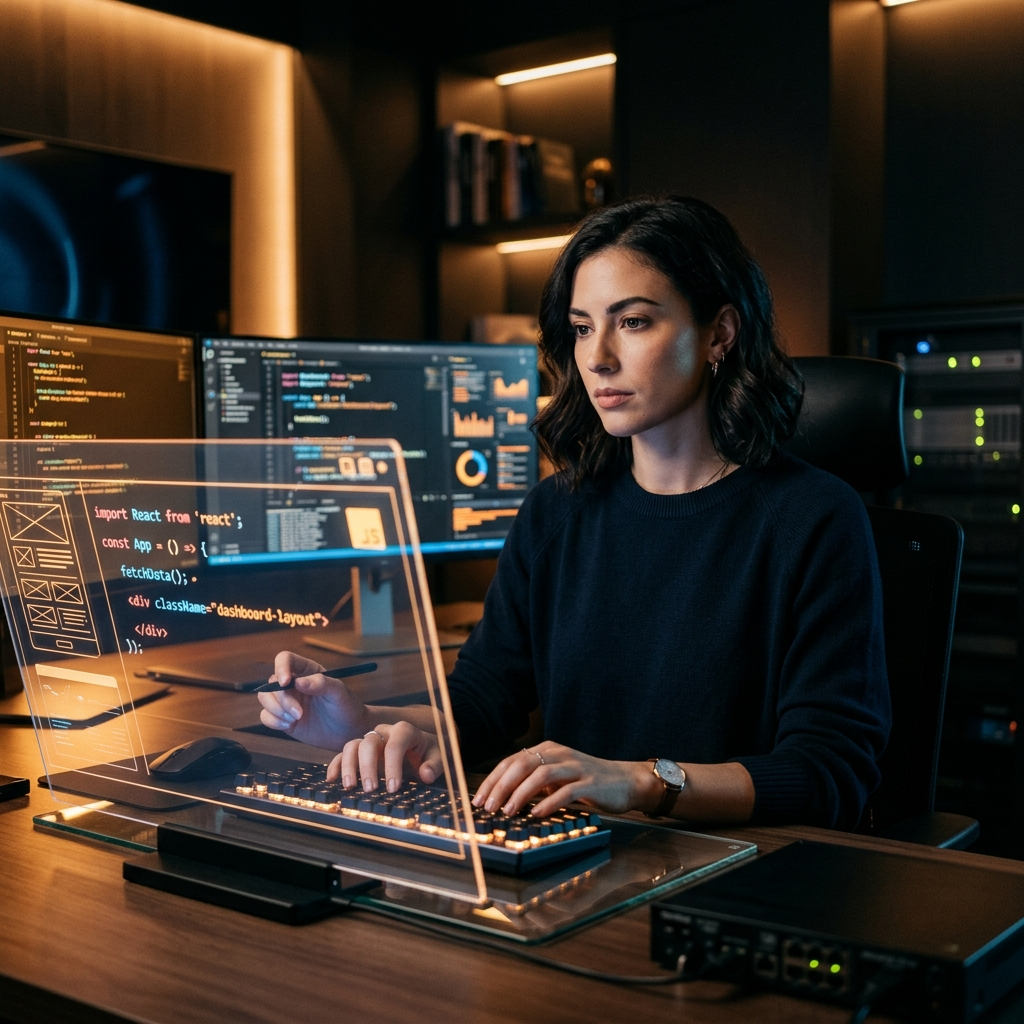
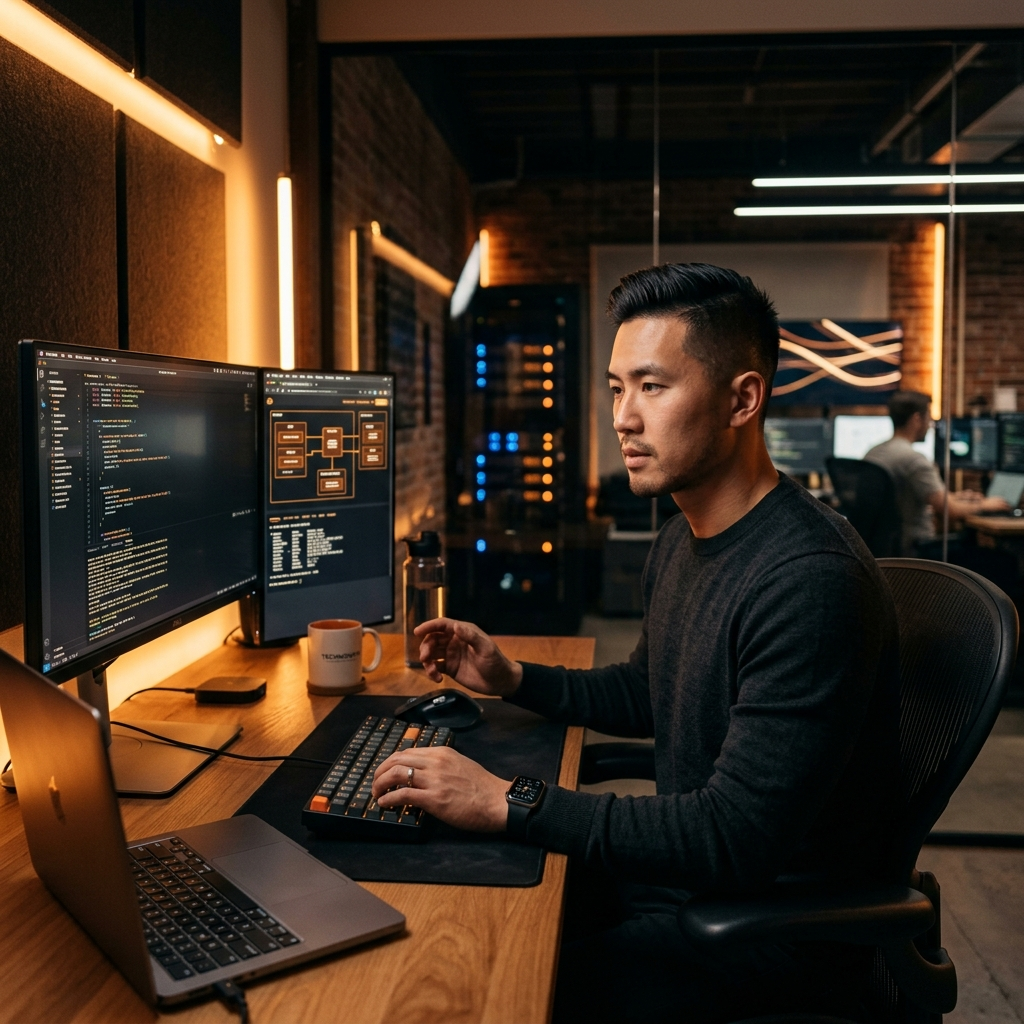
Update portfolio details for Muhammad Asim

diff --git a/index.html b/index.html
@@ -3,8 +3,8 @@
 <head>
   <meta charset="UTF-8" />
   <meta name="viewport" content="width=device-width, initial-scale=1.0" />
-  <title>Laiba Gulzar — Data Analyst · Backend Developer · Digital Builder</title>
-  <meta name="description" content="Portfolio of Laiba Gulzar — BBIT Graduate, Data Analyst, Backend Developer, and Digital Builder based in Lahore, Pakistan." />
+  <title>Muhammad Asim — Full Stack Developer · Data Analyst · Digital Builder</title>
+  <meta name="description" content="Portfolio of Muhammad Asim — Full Stack Developer, Data Analyst, and Digital Builder based in Pakistan." />
   
   <!-- Fonts -->
   <link rel="preconnect" href="https://fonts.googleapis.com" />
@@ -1147,7 +1147,7 @@
   <!-- NAVBAR -->
   <nav id="navbar">
     <a href="#hero" class="nav-logo">
-      Laiba Gulzar<span>.</span>
+      Muhammad Asim<span>.</span>
     </a>
     
     <button class="mobile-menu-btn" id="menuBtn" aria-label="Toggle navigation menu">
@@ -1175,15 +1175,15 @@
           <span class="status-dot"></span> PORTFOLIO · 2025
         </div>
         
-        <h1 class="hero-name">Laiba Gulzar</h1>
+        <h1 class="hero-name">Muhammad Asim</h1>
         
         <div class="hero-roles-wrapper">
-          <span class="roles-text" id="roleTyping">Data Analyst · Backend Developer · Digital Builder</span>
+          <span class="roles-text" id="roleTyping">Full Stack Developer · Data Analyst · Digital Builder</span>
           <span class="typing-cursor"></span>
         </div>
 
         <div class="hero-subdetails">
-          BBIT Graduate · WasteBridge.online · DevelopersHub · Lahore, PK
+          Software Engineering · Full Stack & Data Solutions · Pakistan
         </div>
 
         <div class="hero-actions">
@@ -1199,13 +1199,13 @@
       <div class="hero-right reveal">
         <div class="portrait-card">
           <div class="portrait-img-wrapper">
-            <img src="hero-avatar.jpg" alt="Laiba Gulzar — Data Analyst & Developer" />
+            <img src="hero-avatar.jpg" alt="Muhammad Asim — Full Stack Developer & Analyst" />
             <div class="portrait-overlay"></div>
           </div>
           <div class="portrait-badge">
             <div class="badge-info">
-              <h4>Laiba Gulzar</h4>
-              <p>Data Analyst & Backend Builder</p>
+              <h4>Muhammad Asim</h4>
+              <p>Full Stack Developer & Analyst</p>
             </div>
             <div class="badge-icon">
               <svg width="20" height="20" viewBox="0 0 24 24" fill="none" stroke="currentColor" stroke-width="2">
@@ -1228,16 +1228,16 @@
       <h2 class="section-title">Builder, analyst, <em>creator.</em></h2>
       
       <p>
-        I'm <strong>Laiba</strong> — a <strong>BBIT graduate from University of the Punjab</strong> with a genuine obsession for turning messy data into decisions that matter.
+        I'm <strong>Muhammad Asim</strong> — a passionate software developer and analyst focused on turning complex data into decisions that matter and building high-performance web applications.
       </p>
       <p>
-        My work lives at the intersection of <strong>data science, backend engineering, and entrepreneurial thinking</strong>.
+        My work lives at the intersection of <strong>full stack engineering, data analytics, and digital innovation</strong>.
       </p>
       <p>
-        During my internship at <strong>DevelopersHub</strong> I shipped <strong>7 end-to-end ML/NLP projects</strong> — fraud detection, sentiment analysis, attrition prediction, and more. My Final Year Project <strong>WasteBridge</strong> is a live B2B waste marketplace, deployed at <a href="https://wastebridge.online" target="_blank" style="color:var(--gold); text-decoration:underline;">wastebridge.online</a>.
+        I specialize in developing end-to-end digital solutions, modern backend APIs, interactive dashboards, and scalable web products with clean architecture and performance.
       </p>
       <p>
-        I'm <strong>IBM/Coursera certified in Python for Data Science</strong> and self-studying <strong>AWS Data Analytics</strong>. Based in Lahore — open to remote and hybrid roles globally.
+        Based in Pakistan — open to remote and hybrid engineering & analytical roles globally.
       </p>
     </div>
 
@@ -1285,14 +1285,13 @@
         </div>
         <div class="skill-tags">
           <span class="tag">Python</span>
+          <span class="tag">JavaScript</span>
           <span class="tag">SQL</span>
           <span class="tag">Pandas</span>
           <span class="tag">NumPy</span>
           <span class="tag">Scikit-learn</span>
           <span class="tag">Matplotlib</span>
           <span class="tag">Seaborn</span>
-          <span class="tag">NLTK</span>
-          <span class="tag">HuggingFace</span>
         </div>
       </div>
 
@@ -1304,7 +1303,7 @@
               <path d="M12 2v20M17 5H9.5a3.5 3.5 0 0 0 0 7h5a3.5 3.5 0 0 1 0 7H6"></path>
             </svg>
           </div>
-          <h3>MACHINE LEARNING</h3>
+          <h3>MACHINE LEARNING & DATA</h3>
         </div>
         <div class="skill-tags">
           <span class="tag">Classification</span>
@@ -1318,46 +1317,47 @@
         </div>
       </div>
 
-      <!-- NLP & Text Analytics -->
+      <!-- Web & Full Stack -->
       <div class="skill-card">
         <div class="skill-header">
           <div class="skill-icon">
             <svg width="20" height="20" viewBox="0 0 24 24" fill="none" stroke="currentColor" stroke-width="2">
-              <path d="M21 15a2 2 0 0 1-2 2H7l-4 4V5a2 2 0 0 1 2-2h14a2 2 0 0 1 2 2z"></path>
+              <rect x="2" y="3" width="20" height="14" rx="2" ry="2"></rect>
+              <line x1="8" y1="21" x2="16" y2="21"></line>
+              <line x1="12" y1="17" x2="12" y2="21"></line>
             </svg>
           </div>
-          <h3>NLP & TEXT ANALYTICS</h3>
+          <h3>FRONTEND & BACKEND</h3>
         </div>
         <div class="skill-tags">
-          <span class="tag">Sentiment Analysis</span>
-          <span class="tag">Text Summarisation</span>
-          <span class="tag">TF-IDF</span>
-          <span class="tag">ROUGE Scoring</span>
-          <span class="tag">Transformers</span>
+          <span class="tag">React.js</span>
+          <span class="tag">Node.js</span>
+          <span class="tag">Express.js</span>
+          <span class="tag">FastAPI</span>
+          <span class="tag">REST APIs</span>
+          <span class="tag">Tailwind CSS</span>
+          <span class="tag">HTML5 / CSS3</span>
         </div>
       </div>
 
-      <!-- Backend & APIs -->
+      <!-- Databases & Storage -->
       <div class="skill-card">
         <div class="skill-header">
           <div class="skill-icon">
             <svg width="20" height="20" viewBox="0 0 24 24" fill="none" stroke="currentColor" stroke-width="2">
-              <rect x="2" y="2" width="20" height="8" rx="2" ry="2"></rect>
-              <rect x="2" y="14" width="20" height="8" rx="2" ry="2"></rect>
-              <line x1="6" y1="6" x2="6.01" y2="6"></line>
-              <line x1="6" y1="18" x2="6.01" y2="18"></line>
+              <ellipse cx="12" cy="5" rx="9" ry="3"></ellipse>
+              <path d="M21 12c0 1.66-4 3-9 3s-9-1.34-9-3"></path>
+              <path d="M3 5v14c0 1.66 4 3 9 3s9-1.34 9-3V5"></path>
             </svg>
           </div>
-          <h3>BACKEND & APIS</h3>
+          <h3>DATABASES & STORAGE</h3>
         </div>
         <div class="skill-tags">
-          <span class="tag">FastAPI</span>
+          <span class="tag">MongoDB</span>
+          <span class="tag">MySQL</span>
+          <span class="tag">PostgreSQL</span>
           <span class="tag">SQLite</span>
-          <span class="tag">JWT Auth</span>
-          <span class="tag">REST APIs</span>
-          <span class="tag">Stripe</span>
-          <span class="tag">Git</span>
-          <span class="tag">GitHub</span>
+          <span class="tag">Prisma ORM</span>
         </div>
       </div>
 
@@ -1382,19 +1382,22 @@
         </div>
       </div>
 
-      <!-- Cloud & Certifications -->
+      <!-- Soft Skills & Tools -->
       <div class="skill-card">
         <div class="skill-header">
           <div class="skill-icon">
             <svg width="20" height="20" viewBox="0 0 24 24" fill="none" stroke="currentColor" stroke-width="2">
-              <path d="M18 10h-1.26A8 8 0 1 0 9 20h9a5 5 0 0 0 0-10z"></path>
+              <path d="M14.7 6.3a1 1 0 0 0 0 1.4l1.6 1.6a1 1 0 0 0 1.4 0l3.77-3.77a6 6 0 0 1-7.94 7.94l-6.91 6.91a2.12 2.12 0 0 1-3-3l6.91-6.91a6 6 0 0 1 7.94-7.94l-3.76 3.76z"></path>
             </svg>
           </div>
-          <h3>CLOUD & CERTIFICATIONS</h3>
+          <h3>TOOLS & SOFT SKILLS</h3>
         </div>
         <div class="skill-tags">
-          <span class="tag">IBM Python Certified ✓</span>
-          <span class="tag">AWS Data Analytics ↗</span>
+          <span class="tag">VS Code</span>
+          <span class="tag">Postman</span>
+          <span class="tag">Vercel</span>
+          <span class="tag">Problem Solving</span>
+          <span class="tag">Team Leadership</span>
         </div>
       </div>
     </div>
@@ -1418,7 +1421,7 @@
             </a>
           </div>
           <h3>WasteBridge</h3>
-          <p>Final Year Project — a B2B waste marketplace connecting businesses to verified waste buyers. Full product: auth, listings, payments, and admin panel. Built solo.</p>
+          <p>B2B waste marketplace connecting businesses to verified waste buyers. Full product: auth, listings, payments, and admin panel.</p>
         </div>
         <div>
           <div class="project-techs">
@@ -1576,17 +1579,17 @@
       <!-- Experience 1 -->
       <div class="timeline-item">
         <div>
-          <div class="timeline-company">DEVELOPERSHUB</div>
-          <div class="timeline-date">May 2025 - Jun 2025</div>
-          <div class="timeline-location">Remote · Islamabad</div>
+          <div class="timeline-company">DATA ANALYTICS & DEVELOPMENT</div>
+          <div class="timeline-date">2025</div>
+          <div class="timeline-location">Remote · Pakistan</div>
         </div>
         <div>
-          <h3 class="timeline-role">Data Analyst Intern</h3>
+          <h3 class="timeline-role">Data Analyst & Software Developer</h3>
           <ul class="timeline-bullets">
-            <li>Delivered 7 complete data science projects within a single internship cycle — EDA, supervised ML, NLP, and predictive modelling.</li>
+            <li>Delivered complete data science & ML projects — EDA, supervised machine learning, NLP, and predictive modelling.</li>
             <li>Built fraud detection model using Random Forest and Logistic Regression; reduced false-positive rate through threshold tuning.</li>
-            <li>Developed NLP pipeline for IMDB sentiment analysis and automated text summarisation using HuggingFace Transformers.</li>
-            <li>Produced 10+ publication-ready visualisations with Matplotlib and Seaborn in structured Jupyter Notebook reports.</li>
+            <li>Developed NLP pipeline for sentiment analysis and automated text summarisation.</li>
+            <li>Produced publication-ready visualisations with Matplotlib and Seaborn in structured Jupyter Notebook reports.</li>
           </ul>
         </div>
       </div>
@@ -1594,32 +1597,16 @@
       <!-- Experience 2 -->
       <div class="timeline-item">
         <div>
-          <div class="timeline-company">WASTEBRIDGE</div>
-          <div class="timeline-date">FYP · 2025-2026</div>
-          <div class="timeline-location">Lahore, Pakistan</div>
+          <div class="timeline-company">FULL STACK ENGINEERING</div>
+          <div class="timeline-date">2024 - 2025</div>
+          <div class="timeline-location">Pakistan</div>
         </div>
         <div>
-          <h3 class="timeline-role">Sole Developer — Final Year Project</h3>
+          <h3 class="timeline-role">Full Stack Web Developer</h3>
           <ul class="timeline-bullets">
-            <li>Designed and built WasteBridge.online — a live B2B waste marketplace — solo from architecture through deployment.</li>
-            <li>Backend: FastAPI REST API with JWT authentication, SQLite database, and Stripe payment integration.</li>
-            <li>Frontend: React 19 client; deployed and publicly accessible at wastebridge.online.</li>
-          </ul>
-        </div>
-      </div>
-
-      <!-- Experience 3 -->
-      <div class="timeline-item">
-        <div>
-          <div class="timeline-company">RAWAAH</div>
-          <div class="timeline-date">2023 - 2024</div>
-          <div class="timeline-location">Lahore, Pakistan</div>
-        </div>
-        <div>
-          <h3 class="timeline-role">Founder — E-Commerce Footwear Brand</h3>
-          <ul class="timeline-bullets">
-            <li>Built and operated an e-commerce footwear brand from sourcing through digital marketing and order fulfilment.</li>
-            <li>Gained hands-on experience in pricing, demand forecasting, and customer retention.</li>
+            <li>Designed and built custom web solutions from architecture through production deployment.</li>
+            <li>Backend: RESTful APIs, JWT authentication, database design, and payment gateway integration.</li>
+            <li>Frontend: Modern client applications; deployed and publicly accessible with high responsiveness.</li>
           </ul>
         </div>
       </div>
@@ -1634,19 +1621,19 @@
       <div class="section-tag">— CONTACT</div>
       <h2 class="section-title">Let's build something <em>real</em></h2>
       <p class="contact-sub">
-        Open to data analyst, junior ML, and backend roles — remote or Lahore-based. If you have a problem worth solving with data, I'd love to hear about it.
+        Open to full stack, data analyst, and engineering roles — remote or Pakistan-based. If you have a problem worth solving with code or data, I'd love to hear about it.
       </p>
 
       <div class="contact-buttons">
-        <a href="mailto:laibagulzar768@gmail.com" class="contact-btn">
+        <a href="mailto:work.muhammadasim@gmail.com" class="contact-btn">
           <svg width="16" height="16" viewBox="0 0 24 24" fill="none" stroke="currentColor" stroke-width="2">
             <path d="M4 4h16c1.1 0 2 .9 2 2v12c0 1.1-.9 2-2 2H4c-1.1 0-2-.9-2-2V6c0-1.1.9-2 2-2z"></path>
             <polyline points="22,6 12,13 2,6"></polyline>
           </svg>
-          laibagulzar768@gmail.com
+          work.muhammadasim@gmail.com
         </a>
 
-        <a href="https://linkedin.com/in/laiba-gulzar-274b9527b" target="_blank" rel="noopener" class="contact-btn">
+        <a href="https://www.linkedin.com/in/muhammad-asim001" target="_blank" rel="noopener" class="contact-btn">
           <svg width="16" height="16" viewBox="0 0 24 24" fill="none" stroke="currentColor" stroke-width="2">
             <path d="M16 8a6 6 0 0 1 6 6v7h-4v-7a2 2 0 0 0-2-2 2 2 0 0 0-2 2v7h-4v-7a6 6 0 0 1 6-6z"></path>
             <rect x="2" y="9" width="4" height="12"></rect>
@@ -1655,18 +1642,11 @@
           LinkedIn
         </a>
 
-        <a href="https://github.com/laibagulzar768" target="_blank" rel="noopener" class="contact-btn">
-          <svg width="16" height="16" viewBox="0 0 24 24" fill="none" stroke="currentColor" stroke-width="2">
-            <path d="M9 19c-5 1.5-5-2.5-7-3m14 6v-3.87a3.37 3.37 0 0 0-.94-2.61c3.14-.35 6.44-1.54 6.44-7A5.44 5.44 0 0 0 20 4.77 5.07 5.07 0 0 0 19.91 1S18.73.65 16 2.48a13.38 13.38 0 0 0-7 0C6.27.65 5.09 1 5.09 1A5.07 5.07 0 0 0 5 4.77a5.44 5.44 0 0 0-1.5 3.78c0 5.42 3.3 6.61 6.44 7A3.37 3.37 0 0 0 9 18.13V22"></path>
-          </svg>
-          GitHub
-        </a>
-
-        <a href="tel:+923047409633" class="contact-btn">
+        <a href="tel:03254532830" class="contact-btn">
           <svg width="16" height="16" viewBox="0 0 24 24" fill="none" stroke="currentColor" stroke-width="2">
             <path d="M22 16.92v3a2 2 0 0 1-2.18 2 19.79 19.79 0 0 1-8.63-3.07 19.5 19.5 0 0 1-6-6 19.79 19.79 0 0 1-3.07-8.67A2 2 0 0 1 4.11 2h3a2 2 0 0 1 2 1.72 12.84 12.84 0 0 0 .7 2.81 2 2 0 0 1-.45 2.11L8.09 9.91a16 16 0 0 0 6 6l1.27-1.27a2 2 0 0 1 2.11-.45 12.84 12.84 0 0 0 2.81.7A2 2 0 0 1 22 16.92z"></path>
           </svg>
-          +92 304 740 9633
+          03254532830
         </a>
       </div>
 
@@ -1692,7 +1672,7 @@
 
   <!-- FOOTER -->
   <footer>
-    <p>© 2025 Laiba Gulzar · Lahore, Pakistan &nbsp;·&nbsp; Open to opportunities — remote & hybrid</p>
+    <p>© 2025 Muhammad Asim · Pakistan &nbsp;·&nbsp; Open to opportunities — remote & hybrid</p>
     <a href="#hero" class="footer-backto-top">
       Back to top &uarr;
     </a>
@@ -1719,8 +1699,8 @@
 
     // TYPEWRITER EFFECT FOR HERO ROLES
     const roles = [
+      "Full Stack Developer",
       "Data Analyst",
-      "Backend Developer",
       "Digital Builder"
     ];
     let roleIndex = 0;
